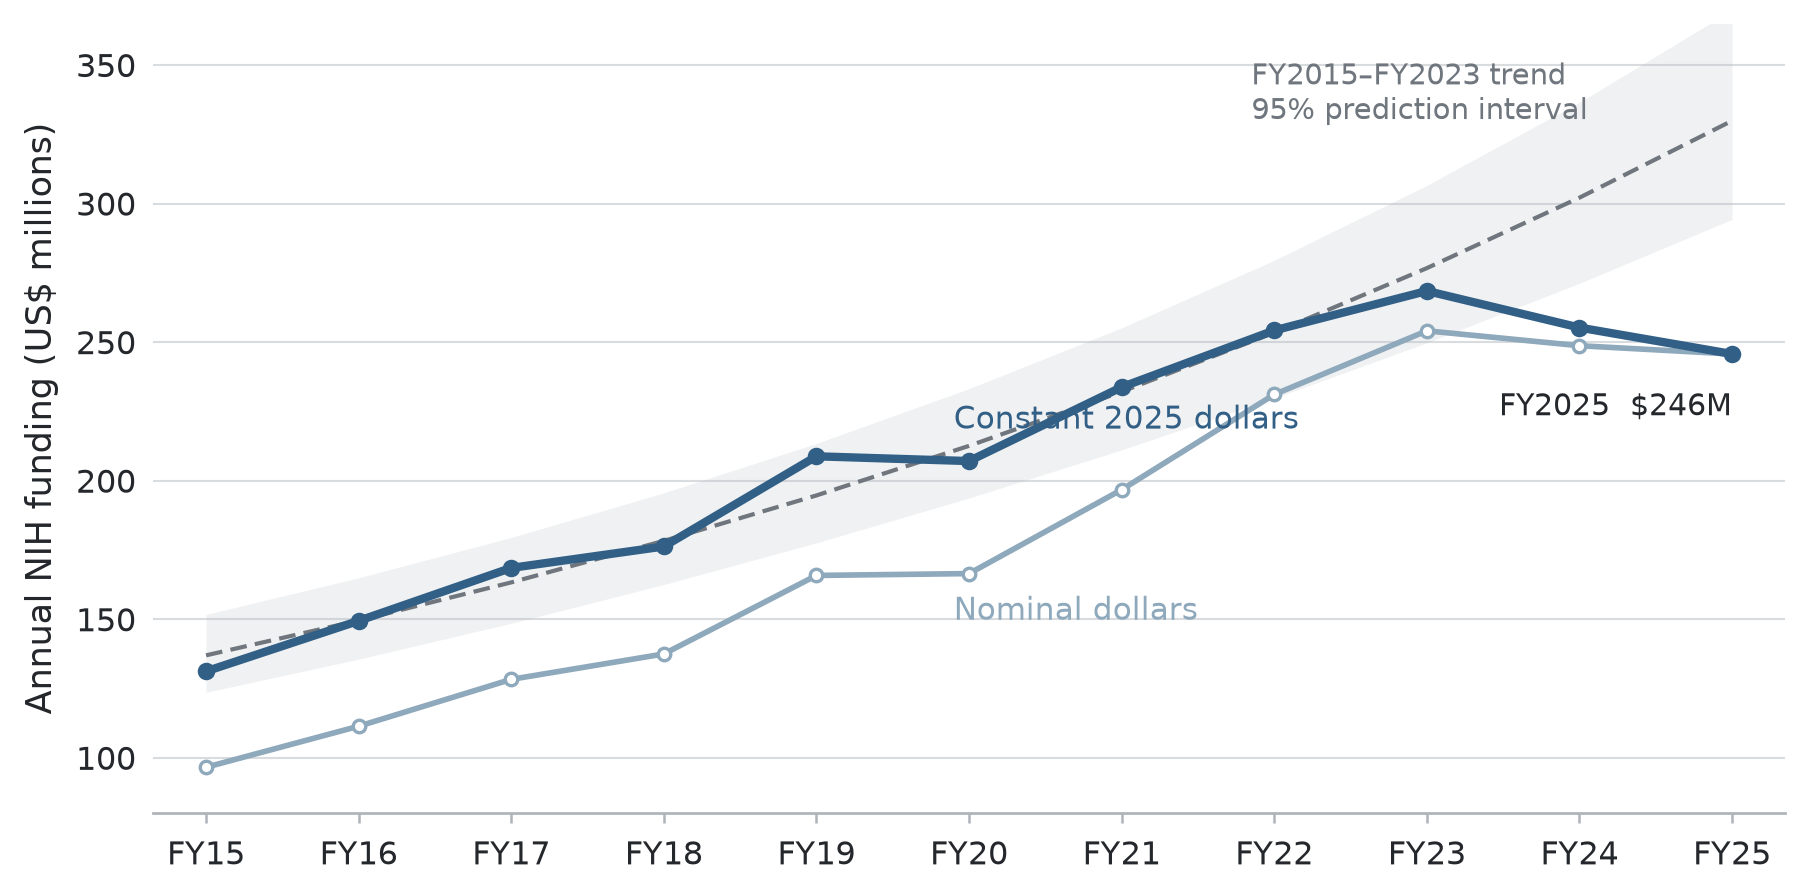
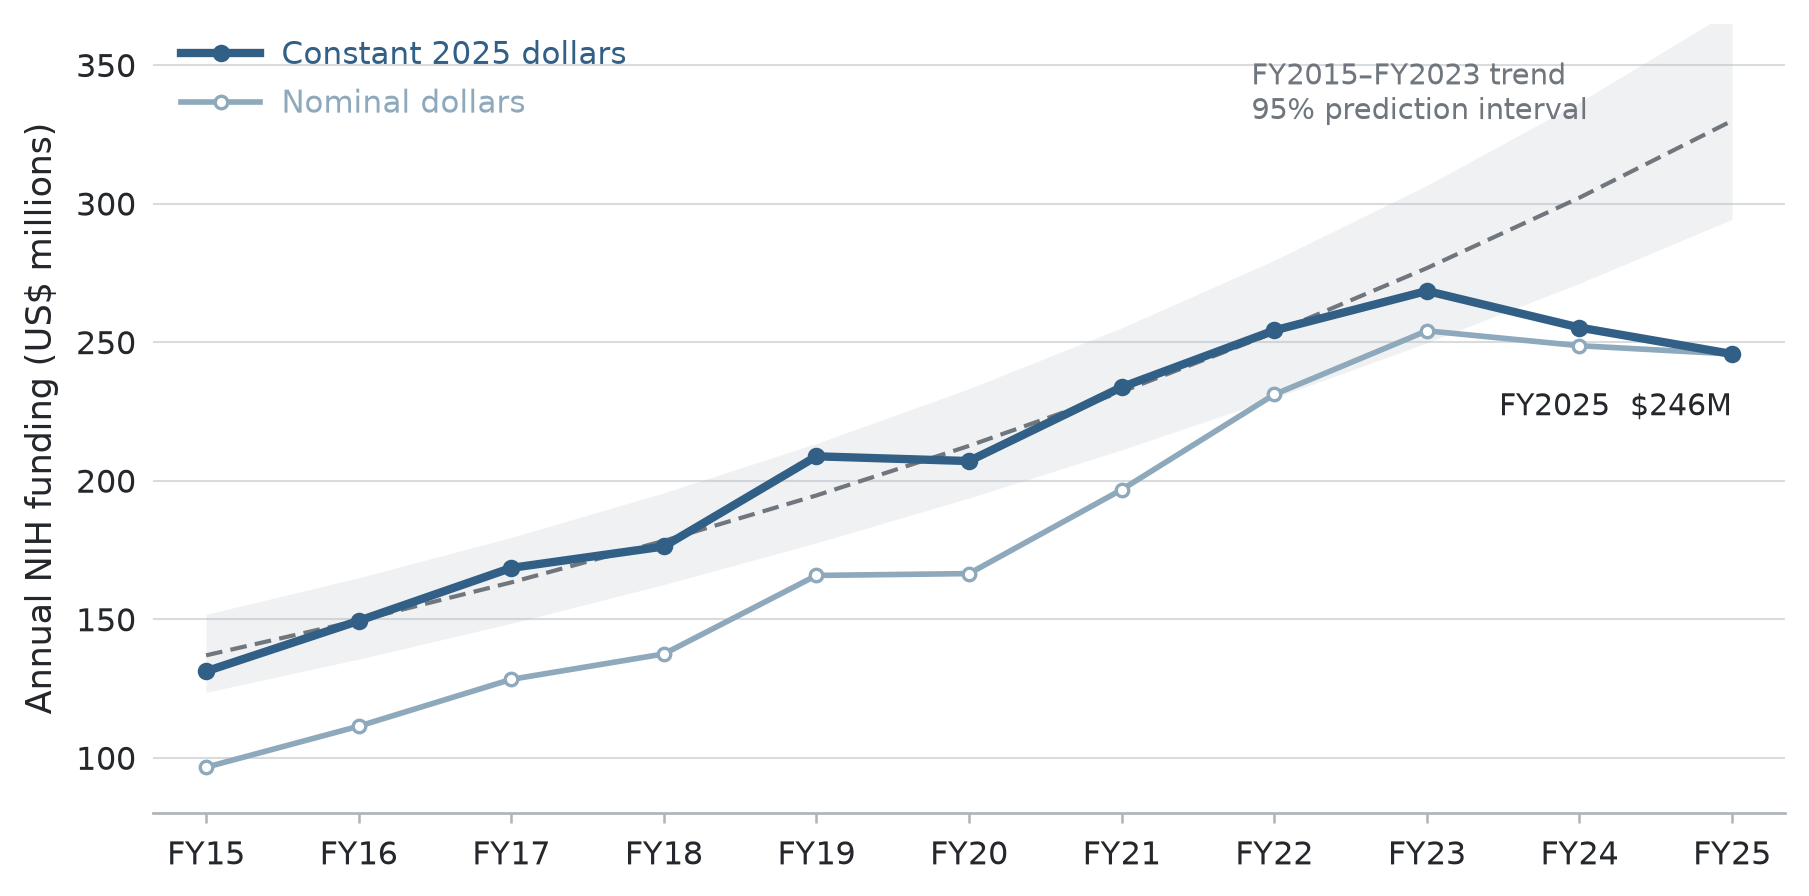
Prevent Figure 1 label overlap

Changed region(s): [[0.0929, 0.0312, 0.3405, 0.125], [0.5263, 0.4375, 0.712, 0.5], [0.5263, 0.6562, 0.6501, 0.6875]]

diff --git a/code/03_figures.py b/code/03_figures.py
@@ -106,13 +106,18 @@ phi = np.exp((ic + sl * px) + piw) / 1e6
 fig, ax = plt.subplots(figsize=(6.15, 3.25))
 ax.fill_between(X, plo, phi, color=PALE, alpha=0.18, linewidth=0, zorder=1)
 ax.plot(X, proj, color=MUTED, lw=1.0, ls=(0, (4, 2)), zorder=2)
-ax.plot(X, nominal, color=PRIMARY_L, lw=1.35, marker="o", ms=3.0,
-        mfc="white", mew=0.8, zorder=3)
-ax.plot(X, real, color=PRIMARY, lw=2.0, marker="o", ms=3.2, zorder=4)
-ax.text(4.9, real[5] + 9, "Constant 2025 dollars", color=PRIMARY,
-        fontsize=7.5, ha="left", va="bottom")
-ax.text(4.9, nominal[5] - 8, "Nominal dollars", color=PRIMARY_L,
-        fontsize=7.5, ha="left", va="top")
+nominal_line, = ax.plot(X, nominal, color=PRIMARY_L, lw=1.35, marker="o",
+                        ms=3.0, mfc="white", mew=0.8, zorder=3)
+real_line, = ax.plot(X, real, color=PRIMARY, lw=2.0, marker="o", ms=3.2,
+                     zorder=4)
+legend = ax.legend(
+    [real_line, nominal_line], ["Constant 2025 dollars", "Nominal dollars"],
+    loc="upper left", bbox_to_anchor=(0.01, 0.995), borderaxespad=0,
+    frameon=False, handlelength=2.5, handletextpad=0.7, labelspacing=0.55,
+    fontsize=7.5,
+)
+for label, color in zip(legend.get_texts(), [PRIMARY, PRIMARY_L]):
+    label.set_color(color)
 ax.text(6.85, 352, "FY2015–FY2023 trend\n95% prediction interval",
         color=MUTED, fontsize=6.9, ha="left", va="top")
 ax.text(10.0, real[-1] - 14, f"FY2025  ${real[-1]:.0f}M", color=INK,

diff --git a/README.md b/README.md
@@ -12,9 +12,10 @@ figures, query documentation, and an independent verification report. It does
 not redistribute the NIH RePORTER row-level export, applicant-supplied
 narratives, investigator-level records, or a derived row-level cohort.
 
-Version 1.0.1 refines the presentation of all five main and three supplementary
-figures without changing the analysis or reported statistics. The DOI above is
-the stable Zenodo concept DOI; the archived v1.0.0 release remains available at
+Version 1.0.2 contains the current five main and three supplementary figures,
+including a corrected Figure 1 key that does not cross the plotted data. The
+analysis and reported statistics are unchanged. The DOI above is the stable
+Zenodo concept DOI; the archived v1.0.0 release remains available at
 [doi:10.5281/zenodo.23334480](https://doi.org/10.5281/zenodo.23334480).
 
 ## Main findings

diff --git a/CHANGELOG.md b/CHANGELOG.md
@@ -1,5 +1,12 @@
 # Changelog
 
+## v1.0.2 — 2026-10-13
+
+- Moved the Figure 1 nominal- and constant-dollar series labels into a compact
+  key above the data so no annotation crosses either trajectory.
+- Re-rendered and visually verified the clean and tracked manuscripts; no data,
+  analysis, or reported result changed.
+
 ## v1.0.1 — 2026-10-13
 
 - Redesigned all five main and three supplementary figures with restrained
